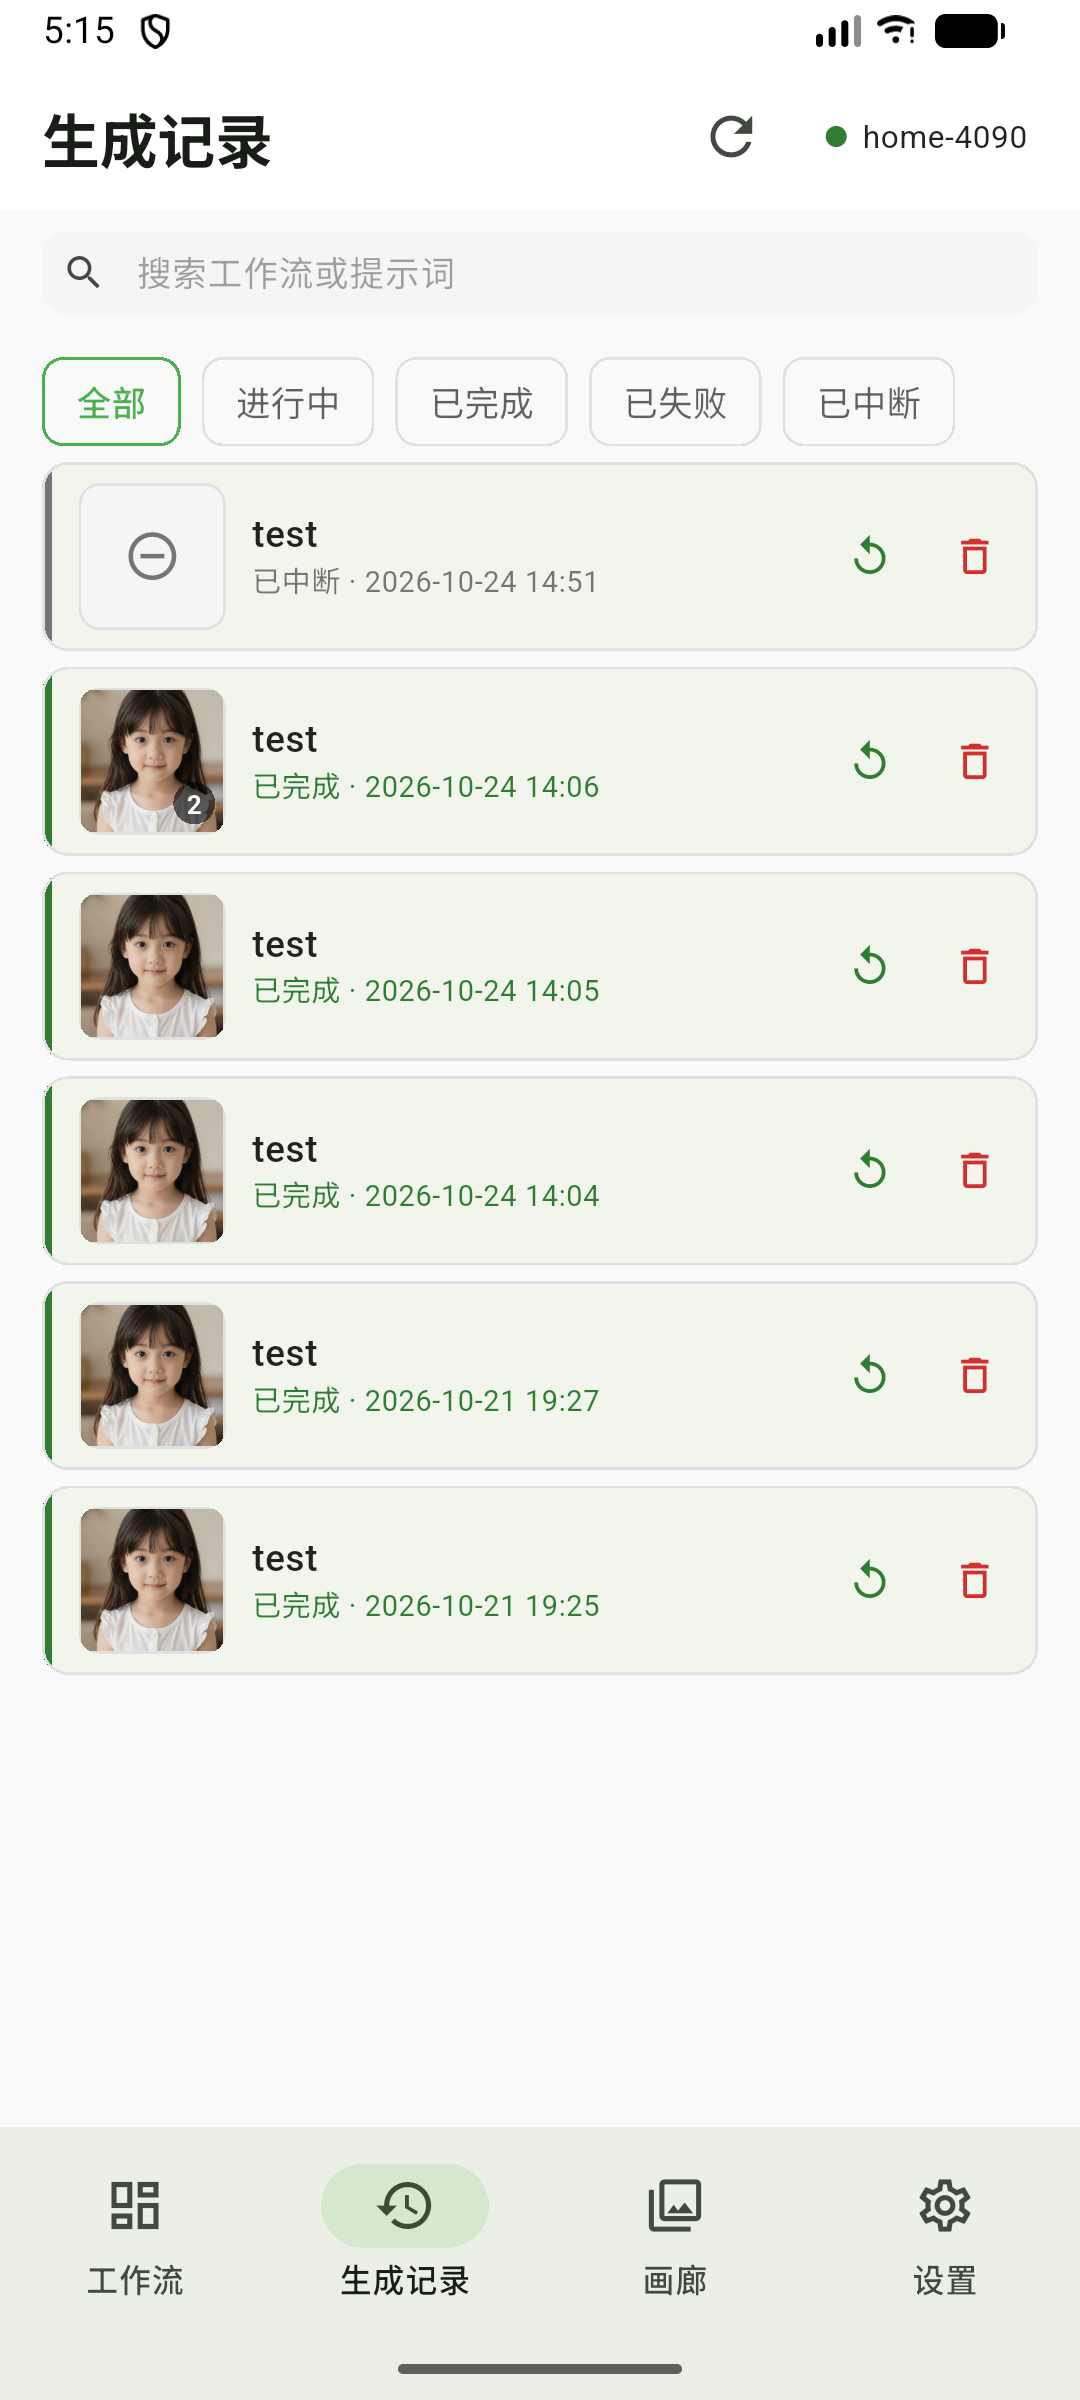
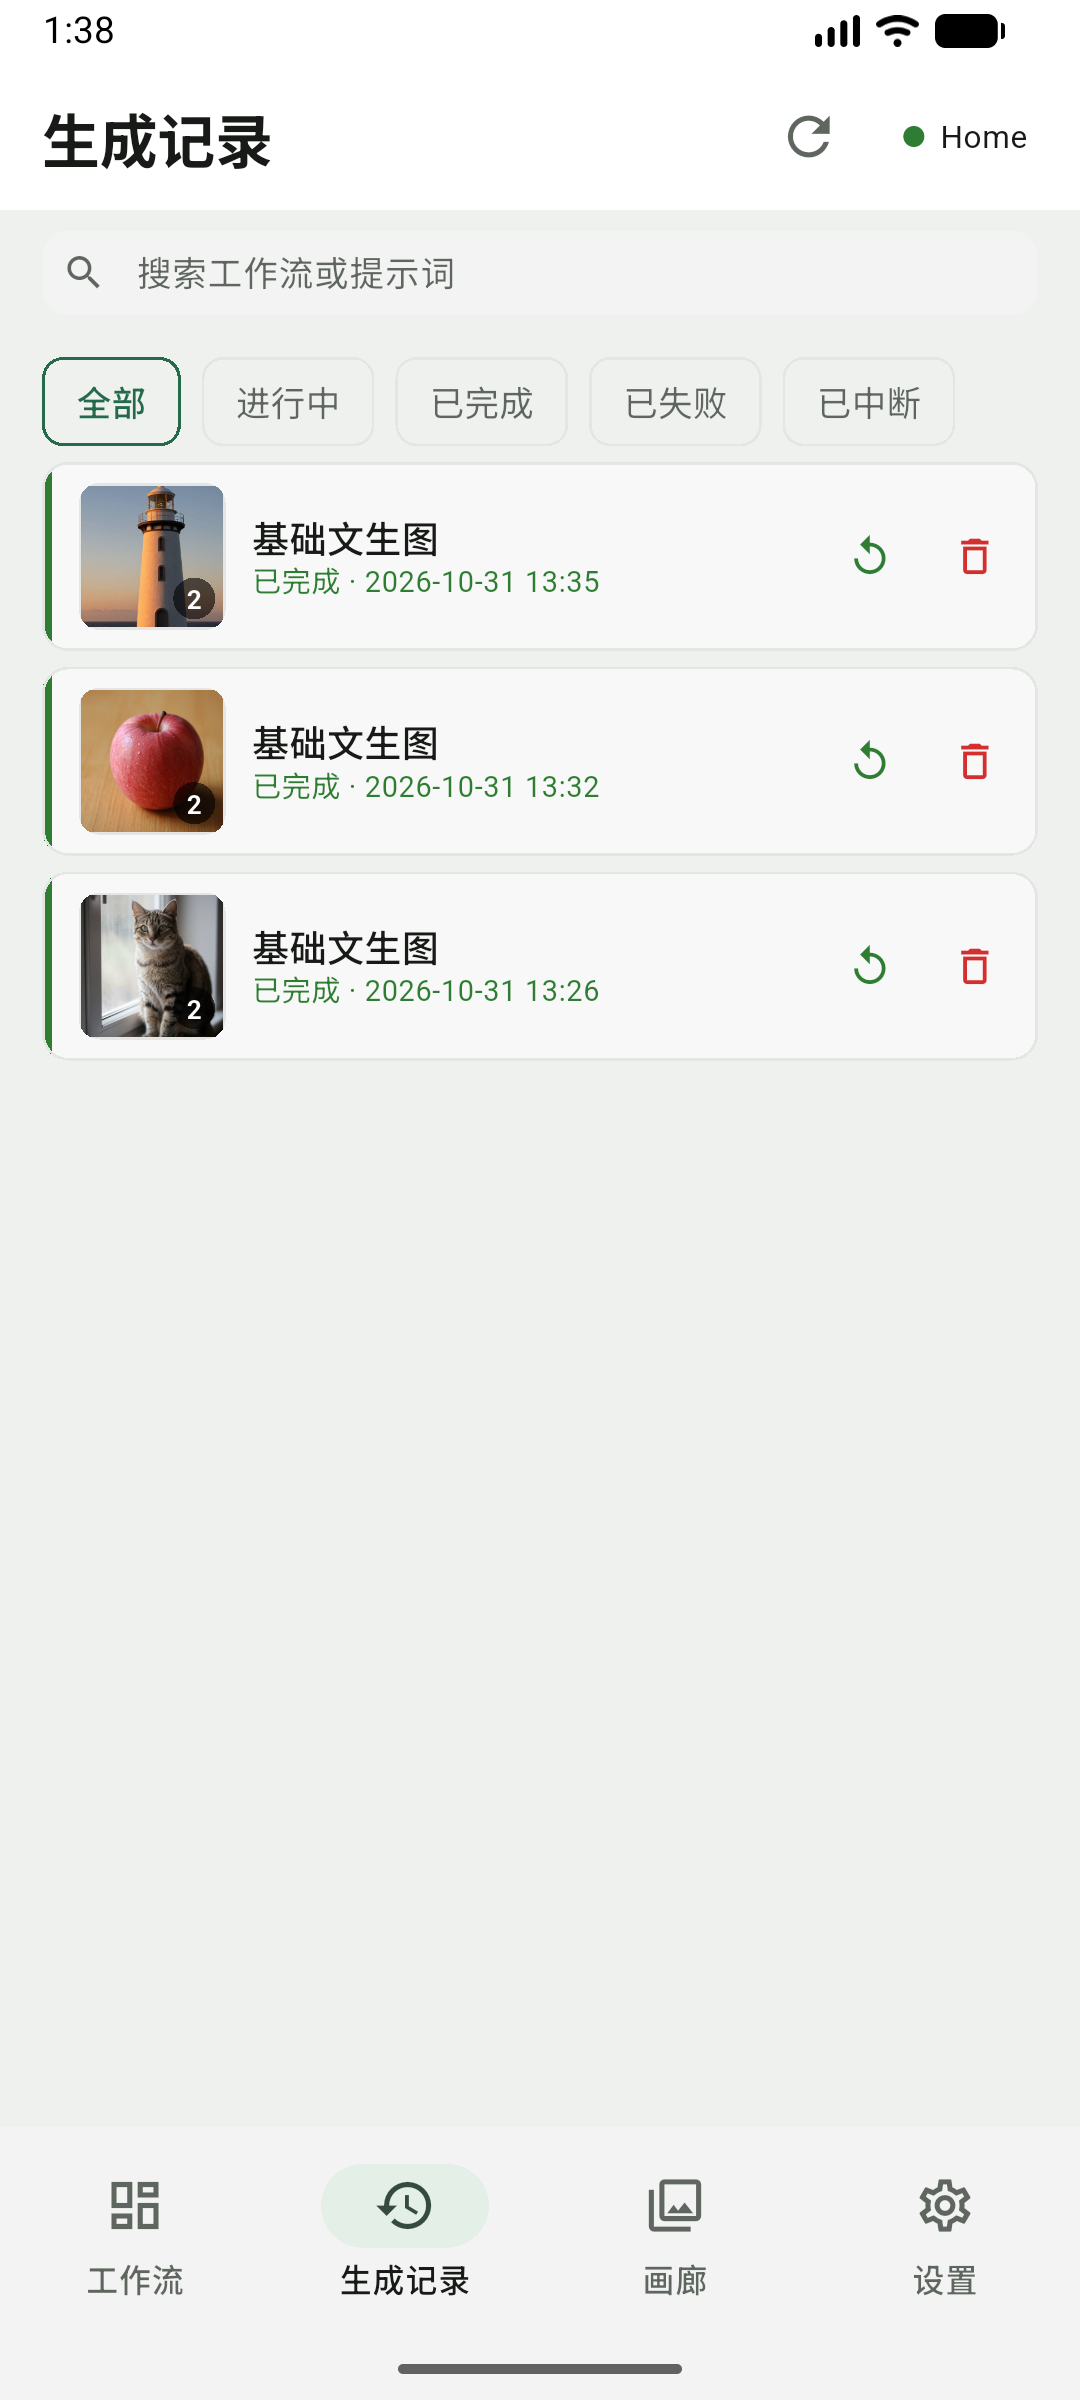
docs: 补齐剩余截图（生成记录/画廊/快照/服务器/本地段/震动）
在模拟器上真实跑了 3 单基础文生图（提示词各不同，服务器队列当时空闲），
拿到真实记录、画廊图片与快照后重截：

- 中英各一套 04-config-picker / 05-history / 06-history-search / 07-gallery /
  08-viewer / 09-save-as / 11-servers / 12-snapshots / 14-local
- 新增 17-haptics（中英各一），补进 5.9「关于震动反馈」
- 02-run 换成基础文生图（不含参考图），避免把私人参考图带进公开文档；
  图注同步改成「按节点分卡、成对参数两列、种子带随机按钮」
- 05/06 图注改成真实数据：三条记录 / 搜 sunset 命中一条并显示命中摘要
- 11-servers 的地址用马赛克糊掉（中英各一）
- 已知限制补一条：英文复数未做（count=1 仍显示 1 servers configured）

diff --git a/README_EN.md b/README_EN.md
@@ -374,7 +374,7 @@ Two boundaries: **image parameters never become dropdowns** — they get their o
   <img src="docs/screenshots/en/02-run.png" width="45%" />
 </p>
 
-<p align="center"><i>Run page: one card per node, paired parameters two per row; image parameters are an "image left, actions right" card, with "Generate" and AI pinned at the bottom</i></p>
+<p align="center"><i>Run page: one card per node, paired parameters two per row, seed with its dice button, with "Generate" and AI pinned at the bottom</i></p>
 
 ### 5.5 Task tracking
 
@@ -431,7 +431,7 @@ Each entry is a compact card: a status colour bar and thumbnail on the left (mul
   <img src="docs/screenshots/en/06-history-search.png" width="45%" />
 </p>
 
-<p align="center"><i>Left: default view with the status filter row　Right: searching "test" matches all 6 entries by workflow name</i></p>
+<p align="center"><i>Left: the default view (three real records) with the status filter row　Right: searching sunset matches one record by prompt, with the match summary on the card</i></p>
 
 **Run again** — one of the most useful things this app does:
 
@@ -527,6 +527,12 @@ The same reference rail sits at the bottom (the images fed into that generation)
 
 - Six categories, each switchable on its own, plus all-on / all-off; everything is on for a fresh install.
 - It governs haptics the app itself triggers (tab switch, ticking, dragging, folding, submitting, long-press viewing). Haptics the system adds, like text-selection feedback inside a field, are outside its control.
+
+<p align="center">
+  <img src="docs/screenshots/en/17-haptics.png" width="45%" />
+</p>
+
+<p align="center"><i>Haptic feedback: six categories, each switchable, plus all on / all off</i></p>
 
 <p align="center">
   <img src="docs/screenshots/en/10-settings.png" width="30%" />
@@ -685,6 +691,7 @@ These are real boundaries of the current version, not bugs:
 - **AI sessions aren't saved**: close the sheet and the conversation is gone; only the text you write lands in the form, so copy anything you want to keep.
 - **Search covers the latest 50 records only**: that's the history cap itself, and search is a plain local filter with no index; a much larger history would need a redesign.
 - **Primarily Android**: in-app updates, album saving and APK installation are all Android implementations; other platforms compile but aren't fully verified, and when an update is found they only point you to the Release page (no in-app install).
+- **English plurals are not handled**: strings like `{count} servers configured` keep the plural suffix at count=1 ("1 servers configured"). Cosmetic only.
 - **No background update checks**; it's manual, on the About page.
 
 ---

diff --git a/README.md b/README.md
@@ -374,7 +374,7 @@ flowchart LR
   <img src="docs/screenshots/zh/02-run.png" width="45%" />
 </p>
 
-<p align="center"><i>运行页：按节点分卡、成对参数两列；图片参数是「图左操作右」的卡片，底部固定「立即生成」与 AI</i></p>
+<p align="center"><i>运行页：按节点分卡、成对参数两列、种子带随机按钮；底部固定「立即生成」与 AI</i></p>
 
 ### 5.5 任务跟踪
 
@@ -431,7 +431,7 @@ stateDiagram-v2
   <img src="docs/screenshots/zh/06-history-search.png" width="45%" />
 </p>
 
-<p align="center"><i>左：默认视图（状态筛选条）　右：搜 "test" 按工作流名命中全部 6 条</i></p>
+<p align="center"><i>左：默认视图（三条真实生成记录 + 状态筛选条）　右：搜 sunset 按提示词命中一条，卡片上显示命中摘要</i></p>
 
 **再次运行**——这是本 App 最实用的能力之一：
 
@@ -527,6 +527,12 @@ stateDiagram-v2
 
 - 6 类动作可分别关掉、互不影响，也可以一键全开 / 全关；新装默认全开。
 - 管的是 App 自己触发的震动（切页、勾选、拖动、折叠、提交、长按看图）；输入框里选词这类系统自带的触感不在此列。
+
+<p align="center">
+  <img src="docs/screenshots/zh/17-haptics.png" width="45%" />
+</p>
+
+<p align="center"><i>震动反馈：六类分别开关，也可以一键全开 / 全关</i></p>
 
 <p align="center">
   <img src="docs/screenshots/zh/10-settings.png" width="30%" />
@@ -685,6 +691,7 @@ flowchart TD
 - **AI 会话不保存**：关掉抽屉就没了，只有点「写入」的文本会进表单，想留档就自己复制出来。
 - **搜索只覆盖最近 50 条记录**：这是生成记录本身的上限，搜索是纯本地过滤、没有索引；记录量级大幅增长后需要重新设计。
 - **主要面向 Android**：应用内更新、相册保存、APK 安装均按 Android 实现；其它平台可编译但未做完整验证，检查到新版本时只提示去 Release 手动下载，不提供应用内安装。
+- **英文复数未做**：`{count} servers configured` 这类句子在 count=1 时仍带复数后缀（如「1 servers configured」），不影响功能。
 - **不做后台自动检查更新**，只在关于页手动触发。
 
 ---
